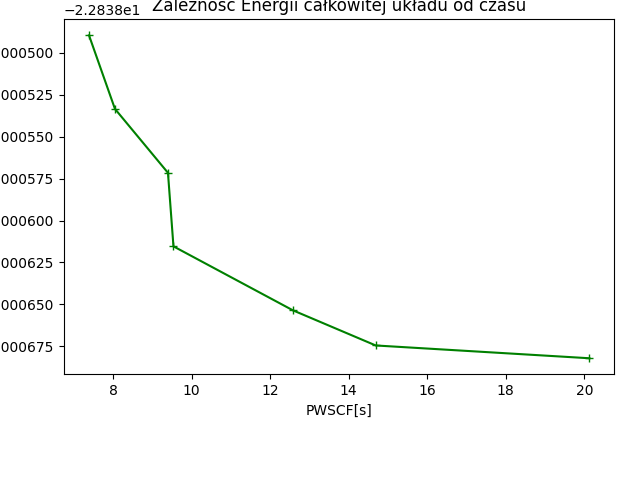
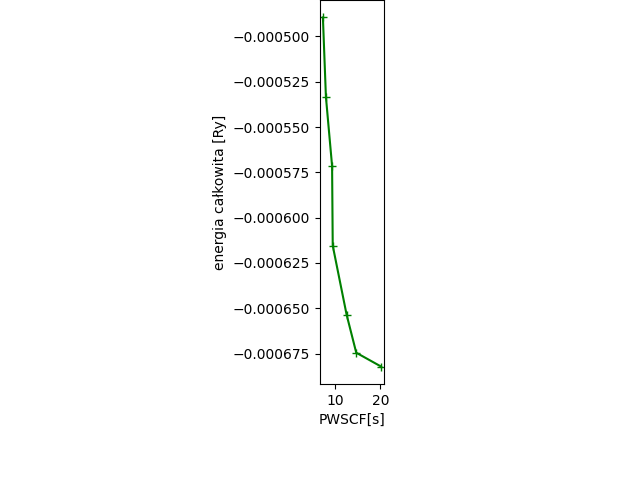
plot1

diff --git a/sk1.py b/sk1.py
@@ -17,7 +17,7 @@ ax.plot(time, np.asarray(energy, np.float32), 'g-+')
 ax.set_xlabel('PWSCF[s]')
 ax.set_ylabel('energia całkowita [Ry]')
 ax.set_title('Zależność Energii całkowitej układu od czasu')
-plt.subplots_adjust(wspace=0.6, hspace=0.6, left=0.1, bottom=0.22, right=0.96, top=0.96)
+plt.subplots_adjust(wspace=0.8, hspace=0.8, left=0.5, bottom=0.2, right=0.6, top=1)
 fig.savefig('skrypt4')
 
 print(time)
